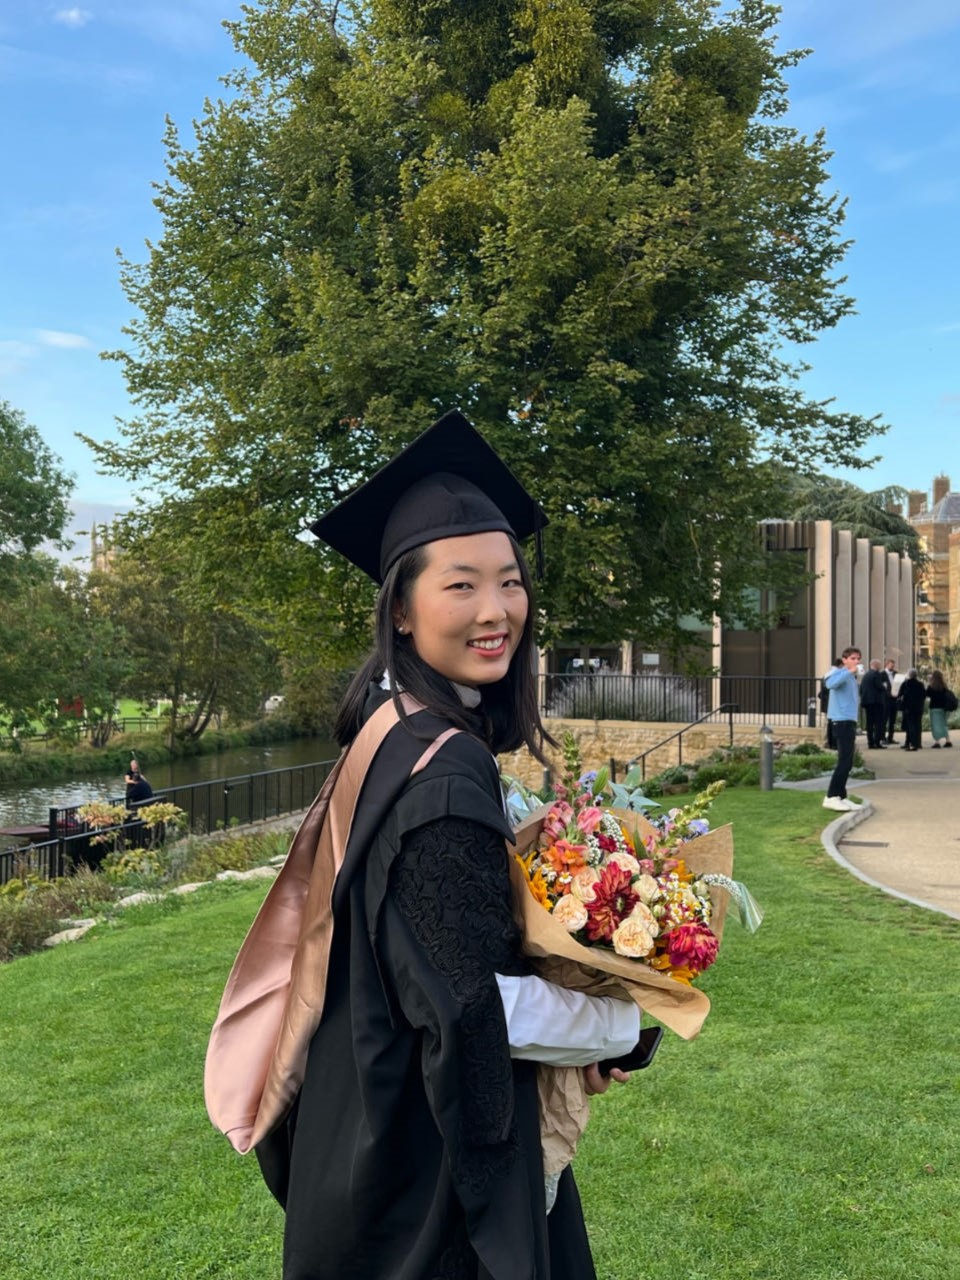
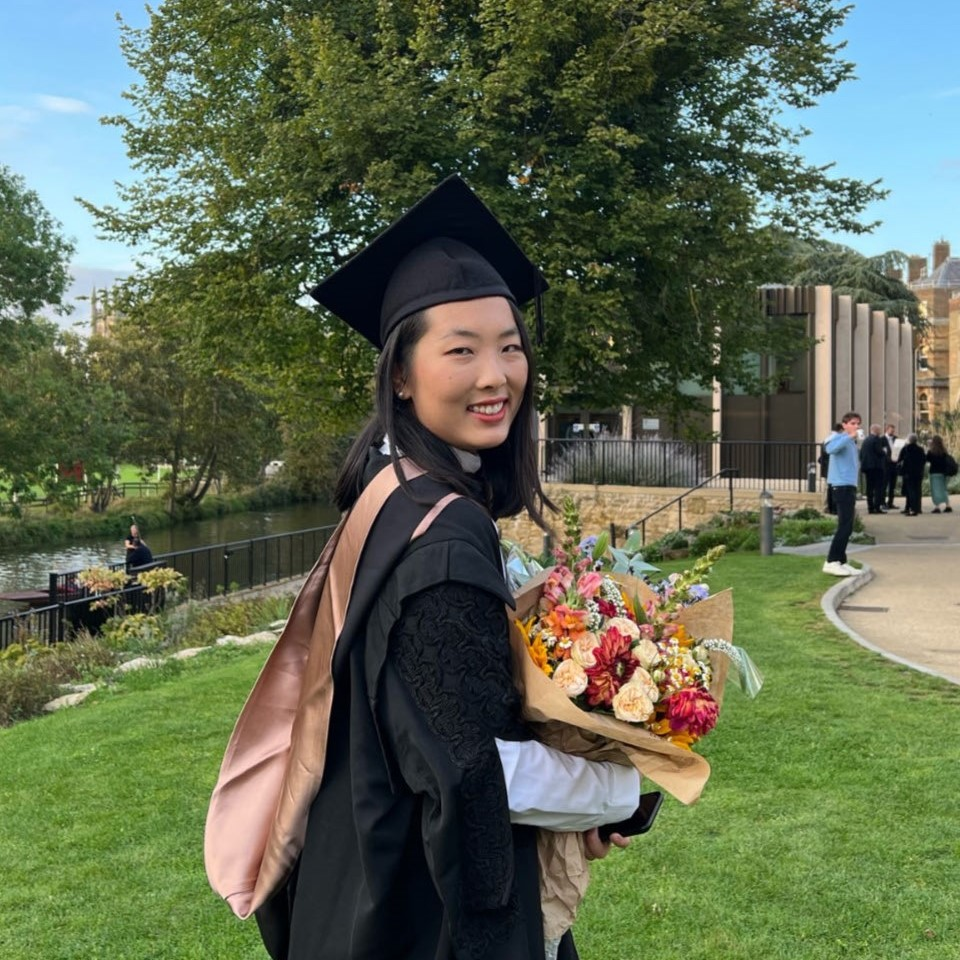
Make pfp/blurb side by side

diff --git a/index.html b/index.html
@@ -13,16 +13,16 @@
        <li><a href=”/blog”>Blog</a></li>
      </ul>
    </nav>
-   <div class=”container”>
-    <div class="image main" data-position="left">
-      <img src="images/ashleywong_profilephoto.jpg" alt="" height="25%" width="25%">
-    </div> 
+   <div class="container">
+    <div class="main-photo" data-position="left">
+      <img class = "pfp" src="images/ashleywong_profilephoto.jpg" alt="">
+    </div>
     <div class=”blurb”>
        <h1>Hi, I'm Ashley.</h1>
-       <p>I am currently a first-year PhD student in the Genomics and Evolutionary Dynamics team headed by Professor Trevor Graham at the Institute of Cancer Research. Prior to this, I completed an MBiochem at the University of Oxford. 
+       <p>I am currently a first-year PhD student in the Genomics and Evolutionary Dynamics team headed by Professor Trevor Graham at the Institute of Cancer Research. Prior to this, I completed an MBiochem at the University of Oxford, completing my Master's research project in the Oxford Protein Informatics Group. 
         <br>
         <br>
-        Here, I collate some of my musings on various areas of science I am interested in. They are united by my fascination with the mechanisms underpinning life and how they go wrong.
+        Here, I collate some of my musings on the mechanisms underpinning life and what happens when they go wrong.
        </p>
      </div>
    </div>

diff --git a/css/styles.css b/css/styles.css
@@ -4,7 +4,7 @@ body {
 }
 nav ul, footer ul {
     font-family:'Helvetica', 'Arial', 'Sans-Serif';
-    padding: 0px;
+    padding: 2%;
     list-style: none;
     font-weight: bold;
 }
@@ -40,4 +40,36 @@ ul.posts {
 
 ul.posts li {
     list-style: none;
+}
+.container {
+    display: grid;
+    grid-template-columns: 30% 70%;
+    grid-gap: 3%;
+    align-items: center;
+    padding: 20px;
+}
+.main-photo{
+    flex: 30%;
+    max-width: 100%;
+    display: flex;
+}
+.pfp {
+    flex: 30%;
+    max-width: 100%;
+    height: auto;
+    border-radius: 50%;
+}
+.blurb{
+    flex: 70%;
+    padding: 5%;
+}
+@media (max-width: 768px) {
+    .container {
+        flex-direction: column; /* Stack items vertically */
+    }
+
+    .main-photo, .blurb {
+        flex: 100%; /* Take up full width */
+        max-width: 100%; /* Remove max-width to fill the screen */
+    }
 }
